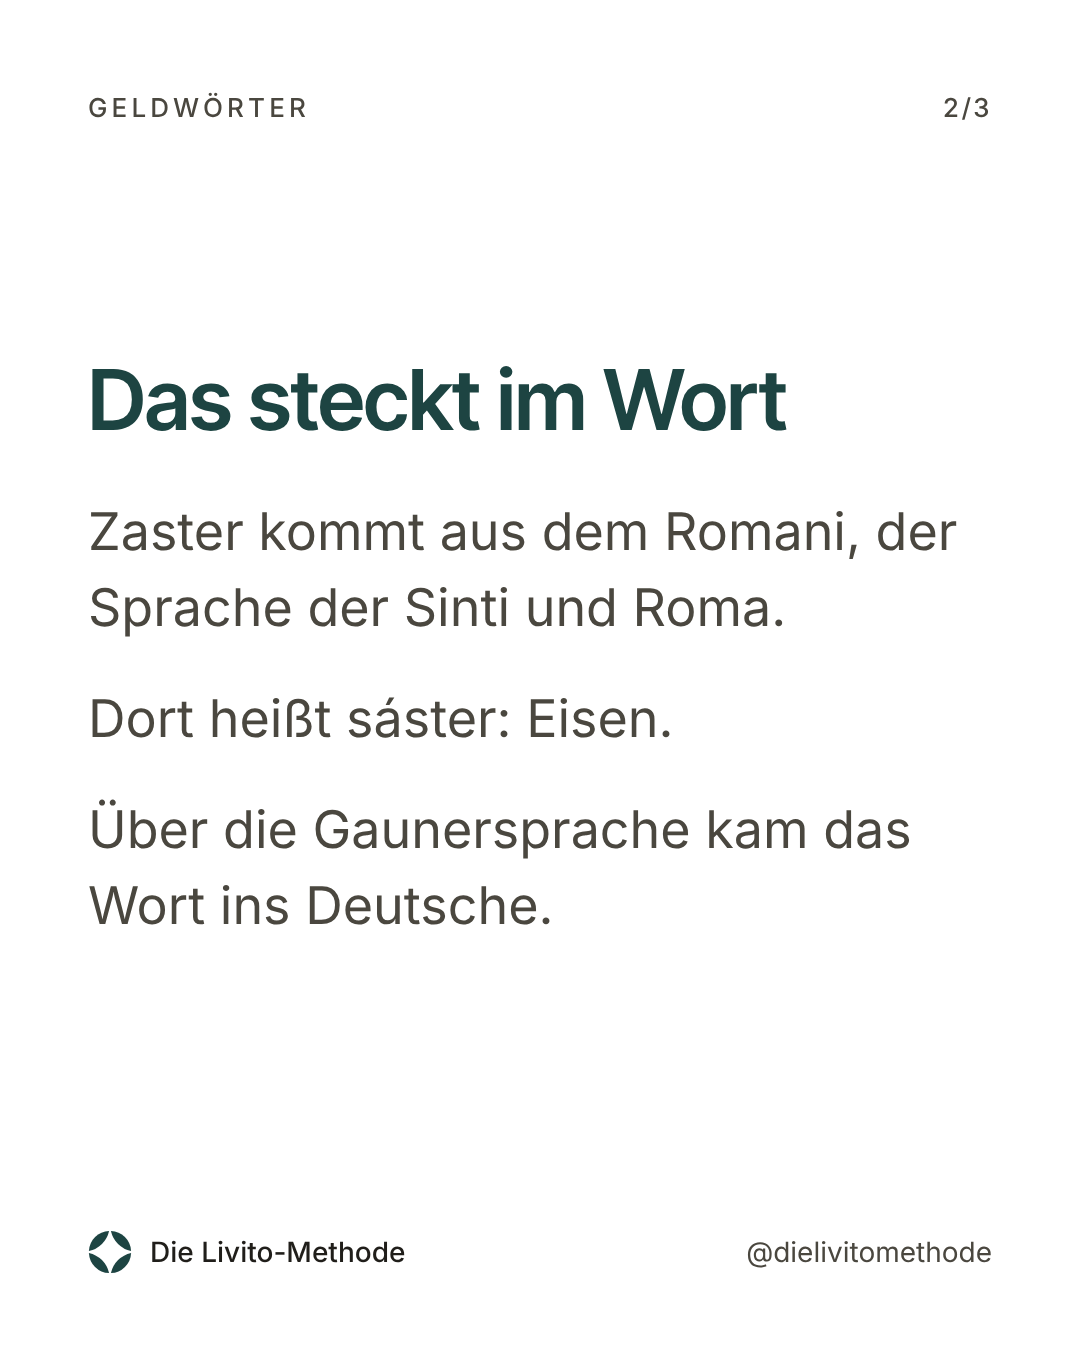
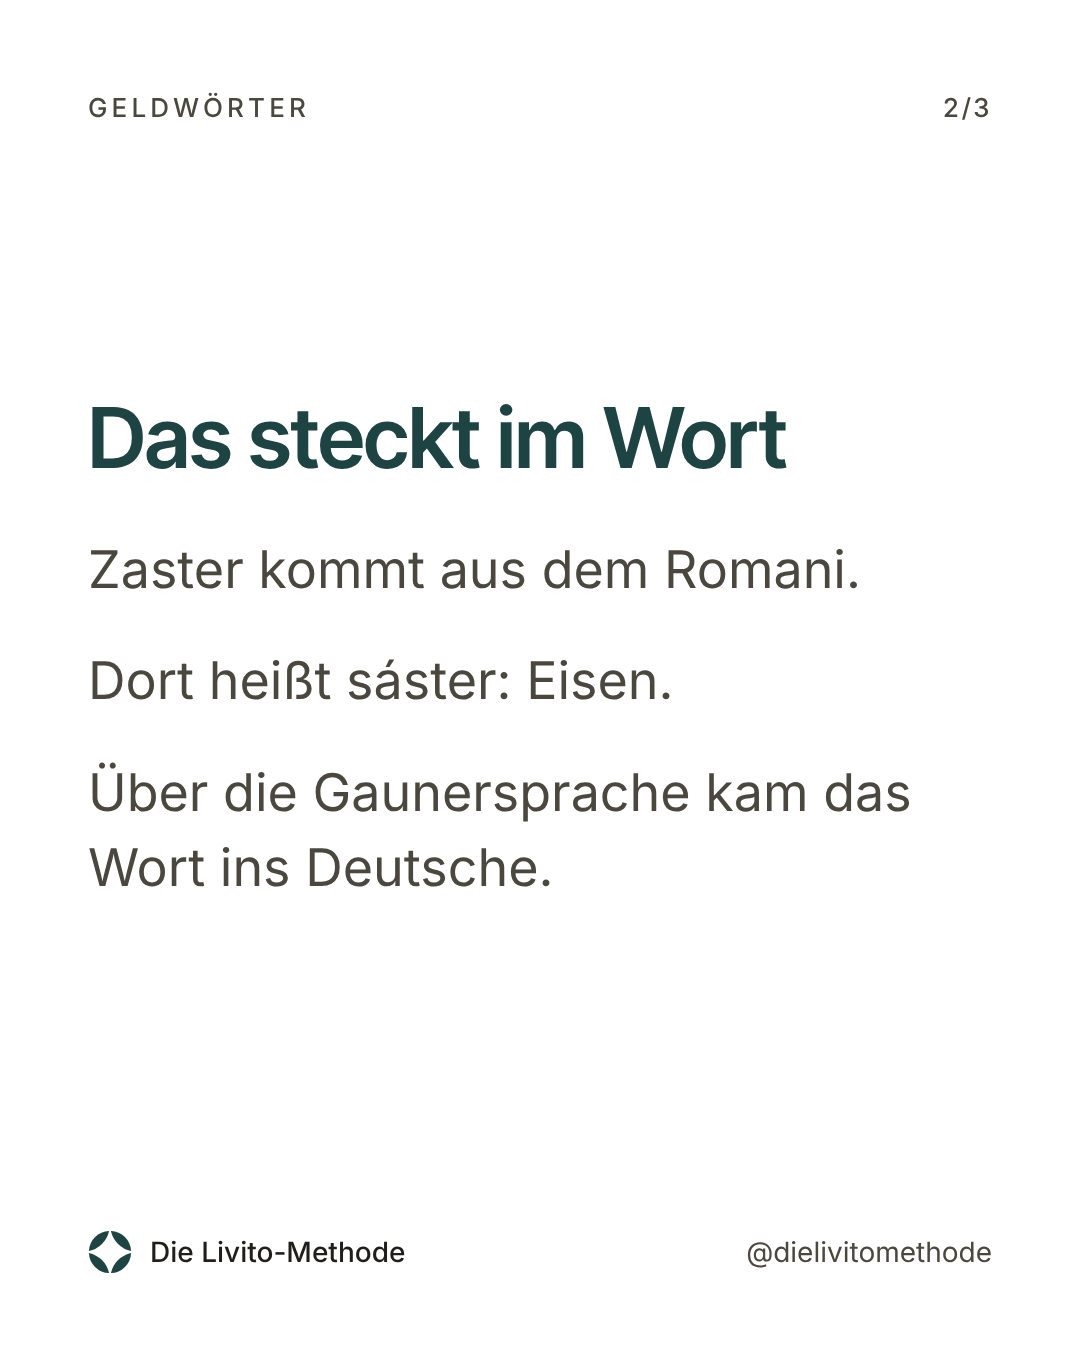
Zaster ohne Zusatz; Moos gestrichen
Claude-Session: https://claude.ai/code/session_01MDUNgoVw8K3wtGB1G4TM1S

Changed region(s): [[0.0611, 0.2489, 0.8861, 0.6844]]

diff --git a/system/slides.html b/system/slides.html
@@ -182,7 +182,7 @@ Object.assign(C, {
    {h:'Das steckt im Wort', b:['Im Hebräischen heißt ma’ot: kleine Münzen.', 'Über das Jiddische kam das Wort in die Gaunersprache.', 'Von dort landete es in unserer Umgangssprache.']},
    {h:'Darum sagen wir:', b:['„Ohne Moos nix los.“', 'Gemeint ist das Geld.', 'Nicht der Wald.'], q:'Quellen: Jüdische Allgemeine; SRF'}),
  wort05: wort('Zaster', 'heißt eigentlich: Eisen.',
-   {h:'Das steckt im Wort', b:['Zaster kommt aus dem Romani, der Sprache der Sinti und Roma.', 'Dort heißt sáster: Eisen.', 'Über die Gaunersprache kam das Wort ins Deutsche.']},
+   {h:'Das steckt im Wort', b:['Zaster kommt aus dem Romani.', 'Dort heißt sáster: Eisen.', 'Über die Gaunersprache kam das Wort ins Deutsche.']},
    {h:'Genau wie blechen', b:['Auch „blechen“ für bezahlen stammt aus der Gaunersprache.', 'Dort hieß Geld einfach: Blech.'], q:'Quellen: Duden; SRF'}),
  wort06: wort('Pleitegeier', 'ist gar kein Vogel.',
    {h:'Das steckt im Wort', b:['Wer zahlungsunfähig war, hieß früher Pleitegeher.', 'Im Jiddischen klingt „geher“ wie „geier“.']},
